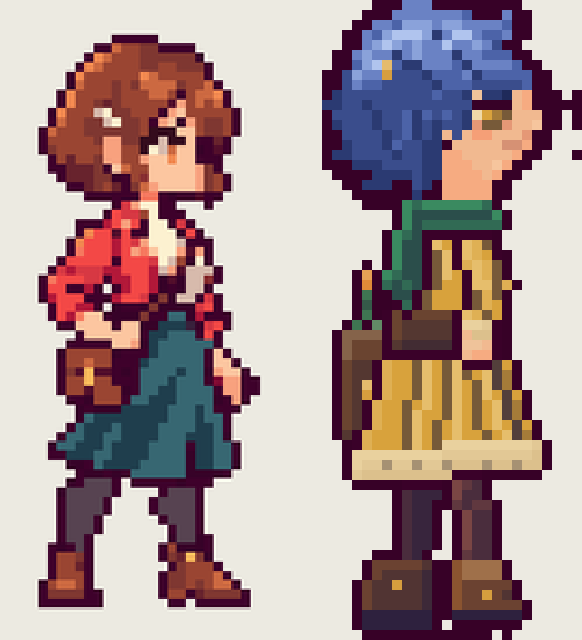
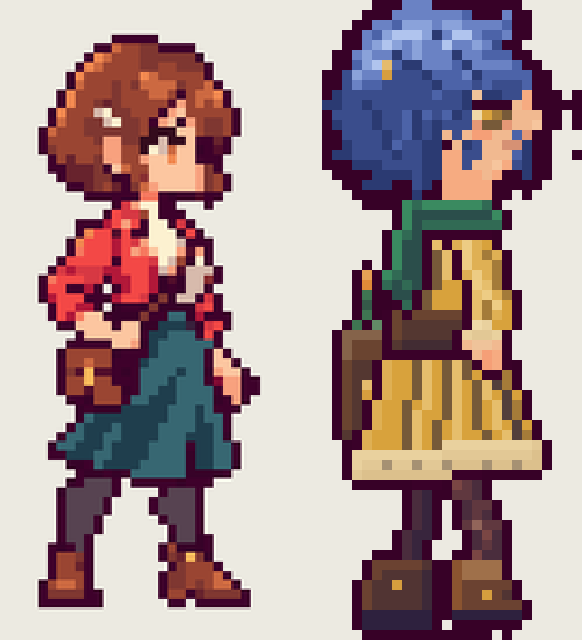
腕・足を直し、顔の前にもかかる髪を足す

diff --git a/games/farmhouse/pixel/gen_body.py b/games/farmhouse/pixel/gen_body.py
@@ -47,9 +47,9 @@ for (x, y, t) in ((4, 32, "E4"), (5, 31, "E4"), (5, 30, "E3"), (6, 29, "E4"), (8
                   (5, 28, "H5"), (6, 27, "H4"), (5, 27, "H6"), (9, 29, "H5"), (10, 28, "H4"), (9, 28, "H6")): bag.dot(x, y, t)
 # ---- 後ろの足・前の足
 legs = Part("legs"); parts.append(legs)
-legs.paint(poly([(11, 47), (15.5, 47), (13, 57.5), (9.5, 57.5)]), 'R', 1, 1, 0)
-legs.paint(poly([(16, 47), (20.5, 47), (22.5, 57.5), (19, 57.5)]), 'R', 3, 1, 1)
-legs.line(18, 49, 20, 56, "R2", 'R')
+legs.paint(poly([(11.5, 47), (15, 47), (14.2, 52.5), (12.3, 57.5), (9.2, 57.5), (11.2, 52.5)]), 'R', 1, 1, 0)
+legs.paint(poly([(16.2, 47), (19.8, 47), (22.4, 52.5), (22.8, 57.5), (19.6, 57.5), (18.3, 52.5)]), 'R', 3, 1, 1)
+legs.line(18, 50, 20.5, 56, "R2", 'R'); legs.dot(19, 52, "R5"); legs.dot(20, 53, "R4")
 # ---- 靴
 boots = Part("boots"); parts.append(boots)
 boots.paint(poly([(7, 56), (13.5, 56), (14.5, 61.5), (5.5, 62), (5.5, 59)]), 'D', 2, 1, 1)
@@ -81,13 +81,14 @@ scarf.paint(poly([(11, 18), (21.5, 18), (22.5, 22.5), (12, 23.5)]), 'c', 4, 1, 1
 scarf.paint(poly([(10.5, 20), (13.5, 20), (12, 31), (8, 29)]), 'c', 3, 1, 1)
 scarf.line(12, 21, 21, 21, "c2"); scarf.line(11, 24, 9, 29, "c2")
 for (x, y) in ((13, 19), (14, 19), (15, 19)): scarf.dot(x, y, "c6")
-# ---- 前の腕と手
+# ---- 前の腕と手（ひじを外に出して、手を腰に）
 arm = Part("arm"); parts.append(arm)
-arm.paint(poly([(16.5, 22), (21, 22), (23.3, 28.5), (20, 30)]), 'b', 5, 1, 1)
-arm.paint(poly([(19.5, 28), (23.5, 28.5), (21.5, 33.5), (17.5, 33)]), 'b', 5, 1, 1)
-arm.paint(poly([(17.8, 31.5), (21.8, 32.2), (21.6, 34), (17.6, 33.4)]), 'L', 5, 1, 1)                # そでぐち
-arm.paint(poly([(17.5, 33.3), (21.5, 33.8), (21.2, 36.5), (17.6, 36)]), 'V', 4, 1, 1)                # 手
-arm.line(21, 24, 22, 29, "b2", 'b'); arm.line(19, 29, 20, 31, "b2", 'b'); arm.dot(18, 25, "b6"); arm.dot(19, 26, "b6")
+arm.paint(poly([(15.5, 22), (20.5, 22), (23.3, 27.5), (20, 30.5)]), 'b', 5, 1, 1)                  # 上腕
+arm.paint(poly([(19, 27.5), (24.5, 29), (23.3, 33.5), (18.6, 32.6)]), 'b', 5, 1, 1)                # 前腕
+arm.paint(poly([(18.6, 31.8), (23.5, 32.8), (23.2, 34.4), (18.4, 33.6)]), 'L', 6, 1, 1)             # そでぐち（白）
+arm.paint(poly([(18.4, 33.6), (23, 34.4), (22.6, 37), (18.6, 36.2)]), 'V', 4, 1, 1)                 # 手
+arm.line(21, 25, 22.5, 29, "b3", 'b'); arm.line(20, 30, 21, 32, "b3", 'b'); arm.line(17, 23, 19, 27, "b7", 'b'); arm.line(19.5, 28.5, 22, 29.5, "b7", 'b')
+arm.dot(20, 35, "V2"); arm.dot(21, 36, "V2")
 # ---- 頭
 head = Part("head"); hc = pxl.build(os.path.join(HERE, "sprites", "part_head.pxl"))[0]
 for y in range(hc.shape[0]):

diff --git a/games/farmhouse/pixel/gen_head2.py b/games/farmhouse/pixel/gen_head2.py
@@ -62,8 +62,17 @@ for (x0, y0, x1, y1) in ((6, 4, 11, 8), (11, 3, 15, 7), (4, 10, 7, 15), (9, 11, 
         if code[y, x][0] == 'a': code[y, x] = "a2"
 for (x, y) in ((7, 3), (8, 3), (9, 3), (6, 4), (13, 3), (14, 3), (5, 6), (6, 6), (12, 4)): dot(x, y, "a7")      # つや
 for (x, y) in ((8, 2), (10, 2), (7, 4), (15, 4)): dot(x, y, "a6")
+# ---- 顔の前にもかかる髪（前髪がまゆにかぶさる／頬にたれる細い束／あごの横にたれる束）
+paint(poly([(15, 8.2), (19.5, 8.6), (20.4, 10.4), (18.2, 9.9), (16.3, 10.4)]), 'a', 3, 1, 1)
+for (x0, y0, x1, y1) in ((14, 10, 15, 15), (13, 11, 14, 16)):
+    n = int(max(abs(x1 - x0), abs(y1 - y0)))
+    for k in range(n + 1):
+        x = int(round(x0 + (x1 - x0) * k / max(1, n))); y = int(round(y0 + (y1 - y0) * k / max(1, n)))
+        code[y, x] = "a3" if k % 3 else "a2"
+paint(poly([(19.4, 13), (21.2, 13.4), (20.6, 17.2), (19, 16.2)]), 'a', 3, 1, 1)
+dot(20, 17, "a2"); dot(20, 16, "a2")
 # ---- 顔のなか：まゆ・目・ほお・口
-dot(16, 9, "a2"); dot(17, 9, "a2"); dot(18, 9, "a1")
+dot(16, 9, "a2")
 for x in (15, 16, 17, 18): dot(x, 10, "U1")                      # まつ毛
 dot(15, 11, "L7"); dot(16, 11, "b4"); dot(17, 11, "b3"); dot(18, 11, "b2")  # 白目と大きな黒目
 dot(16, 12, "b2"); dot(17, 12, "b2"); dot(15, 12, "V1"); dot(18, 12, "V1")
